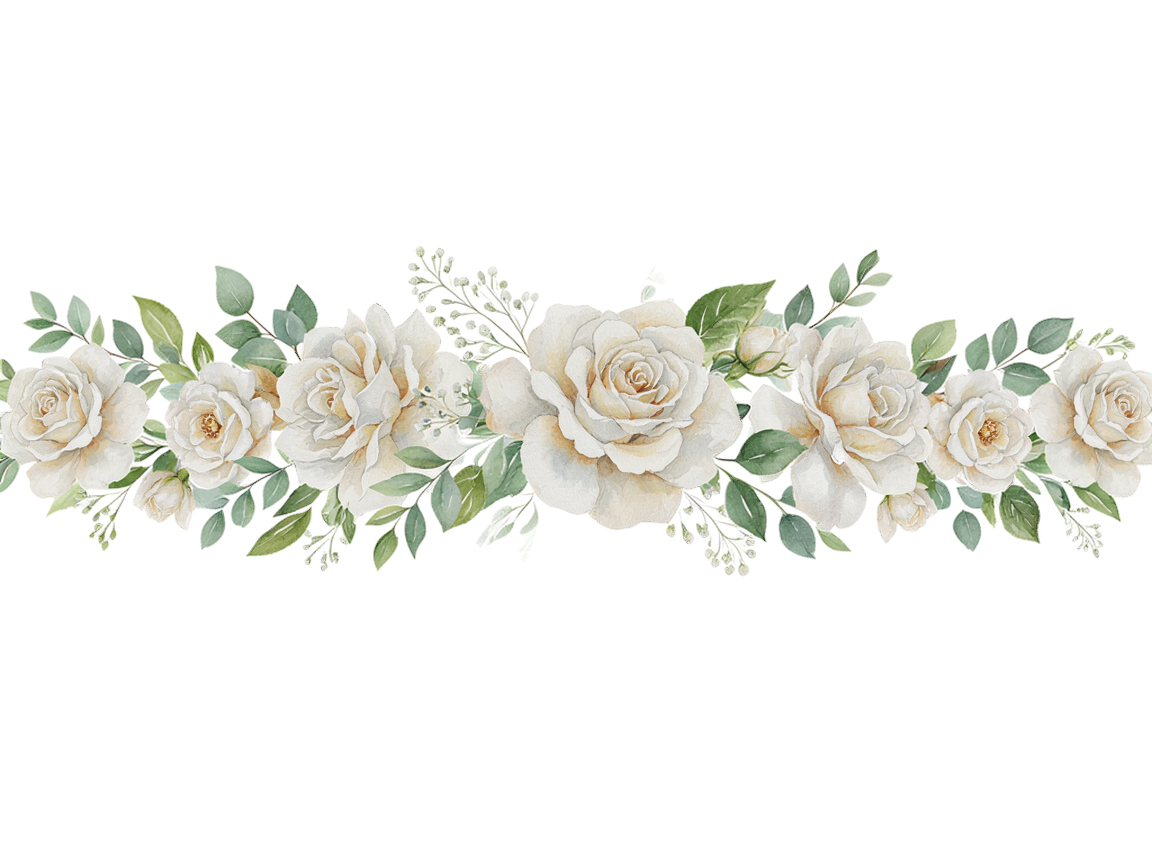
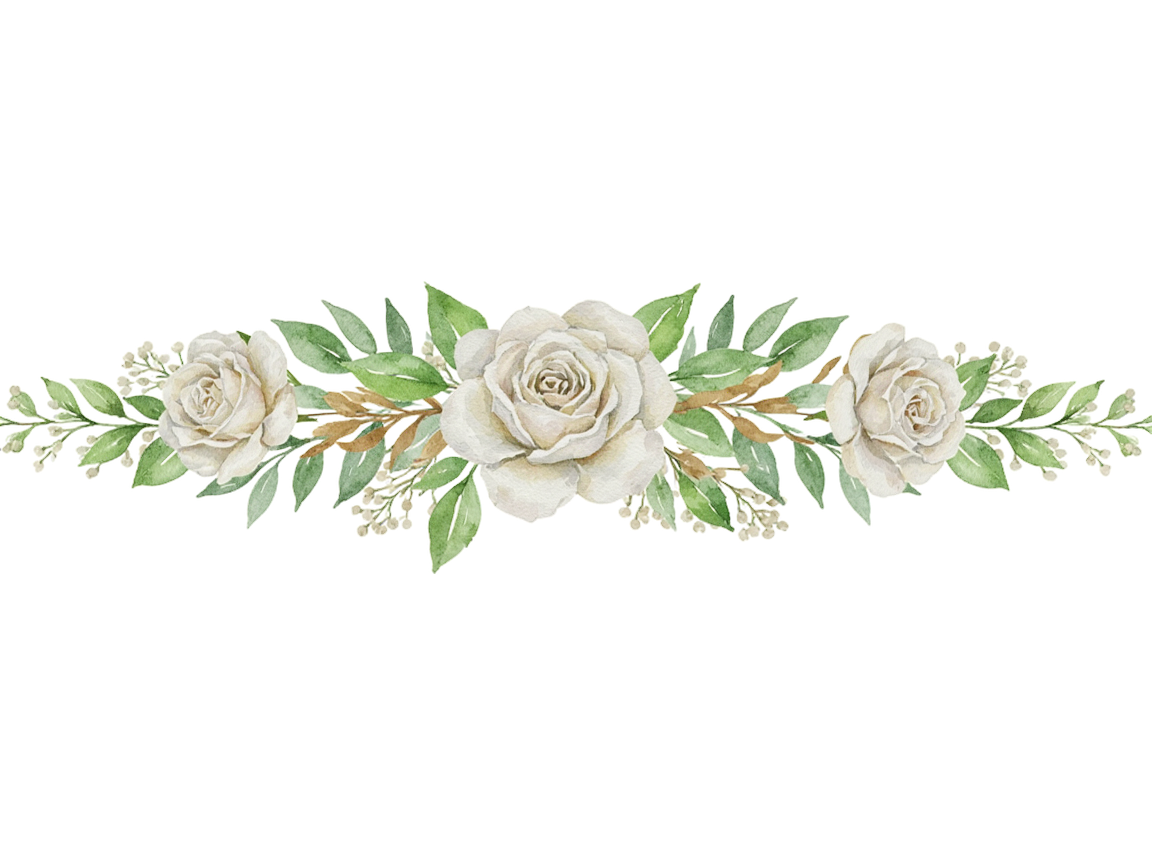
Difumina las costuras entre secciones y usa ilustraciones reales de vestimenta
Las bandas ya no tienen bordes: cada sección entra con el color con el que
sale la anterior, así que los fondos son degradados encadenados. Casos
especiales de la foto, que es imagen y no color plano: su borde superior se
difumina contra la banda previa y su sombra inferior se derrama sobre
Ubicación durante ~110 px en vez de cortarse en seco contra el crema.

Reemplaza las siluetas SVG del código de vestimenta por recortes de
assets/dresscode.png, ajustados al bbox de alfa y alineados por el
dobladillo.

Regenera el divisor del cierre desde el PNG nuevo: recortado a su arte real
(traía dos tercios de lienzo vacío) y a 920 px, 147 KB contra 214 KB.

Agrega height:auto global a img — sin él, los atributos width/height que
acompañan al divisor deformaban la imagen.

Claude-Session: https://claude.ai/code/session_01P3bTJTnappvg8qY71HMG3s

Changed region(s): [[0.0, 0.2812, 1.0, 0.6875]]

diff --git a/css/styles.css b/css/styles.css
@@ -49,7 +49,7 @@ body{
   font-feature-settings: "lnum" 1;
 }
 
-img{ max-width: 100%; display: block; }
+img{ max-width: 100%; height: auto; display: block; }
 
 .visually-hidden{
   position: absolute; width: 1px; height: 1px;
@@ -94,10 +94,19 @@ img{ max-width: 100%; display: block; }
   overflow: hidden;
 }
 
-.section--cream{ background: var(--cream-warm); }
+.section--cream{
+  background: linear-gradient(180deg,
+    var(--cream-warm) 0%,
+    var(--cream-warm) 58%,
+    #F5F6EC 100%);
+}
 .section--sage{
-  background:
-    radial-gradient(120% 100% at 50% 0%, #F3F7EA 0%, var(--sage-mist) 55%, #E4EDD3 100%);
+  background: linear-gradient(180deg,
+    #F5F6EC 0%,
+    var(--sage-mist) 20%,
+    #E1EBCD 52%,
+    #E9EFDA 76%,
+    #F2F3E7 100%);
 }
 
 /* ---------- Botones ---------- */
@@ -434,7 +443,7 @@ body.is-open .invitation{ opacity: 1; }
   animation: float-a 11s ease-in-out infinite;
 }
 .hero__floral--bottom{
-  bottom: -6%;
+  bottom: -2%;
   left: -18%;
   width: min(360px, 74vw);
   transform: scaleX(-1);
@@ -549,6 +558,14 @@ body.is-open .invitation{ opacity: 1; }
   overflow: hidden;
   isolation: isolate;
 }
+.photo__frame::before{
+  content: "";
+  position: absolute;
+  top: 0; left: 0; right: 0;
+  height: clamp(60px, 12vw, 110px);
+  z-index: 1;
+  background: linear-gradient(to bottom, var(--cream-warm) 0%, rgba(247,242,233,0) 100%);
+}
 .photo__img{
   width: 100%;
   height: clamp(420px, 78svh, 680px);
@@ -607,6 +624,19 @@ body.is-open .invitation{ opacity: 1; }
 
 /* ---------- 4. Ubicación ---------- */
 
+.location{ isolation: isolate; }
+.location::before{
+  content: "";
+  position: absolute;
+  top: 0; left: 0; right: 0;
+  height: clamp(70px, 14vw, 120px);
+  z-index: 0;
+  background: linear-gradient(to bottom,
+    rgba(48,42,32,.86) 0%,
+    rgba(64,56,44,.42) 34%,
+    rgba(120,108,88,.14) 62%,
+    rgba(247,242,233,0) 100%);
+}
 .location .wrap{ text-align: center; }
 
 .card--location{
@@ -650,23 +680,16 @@ body.is-open .invitation{ opacity: 1; }
 
 .dresscode__icons{
   display: flex;
-  align-items: center;
+  align-items: flex-end;
   justify-content: center;
-  gap: clamp(1.4rem, 7vw, 3.4rem);
+  gap: clamp(1.6rem, 8vw, 3.8rem);
 }
 .silhouette{ margin: 0; display: grid; justify-items: center; gap: .9rem; }
-.silhouette svg{
-  width: clamp(84px, 24vw, 116px);
-  height: auto;
+.silhouette img{
+  height: clamp(124px, 34vw, 168px);
+  width: auto;
+  filter: drop-shadow(0 10px 16px rgba(90,76,52,.13));
 }
-.silhouette .line{
-  fill: none;
-  stroke: var(--tan-deep);
-  stroke-width: 2;
-  stroke-linecap: round;
-  stroke-linejoin: round;
-}
-.silhouette .line .dot{ fill: var(--tan-deep); stroke: none; }
 .silhouette figcaption{
   font-size: .66rem;
   letter-spacing: .28em;
@@ -677,6 +700,7 @@ body.is-open .invitation{ opacity: 1; }
 .dresscode__divider{
   width: 1px;
   align-self: stretch;
+  margin-bottom: .6rem;
   background: linear-gradient(to bottom, transparent, rgba(124,154,94,.55), transparent);
 }
 .dresscode__note{
@@ -688,7 +712,13 @@ body.is-open .invitation{ opacity: 1; }
 
 /* ---------- 6. Itinerario ---------- */
 
-.timeline-section{ background: var(--cream); }
+.timeline-section{
+  background: linear-gradient(180deg,
+    #F2F3E7 0%,
+    var(--cream) 22%,
+    var(--cream) 62%,
+    #F7F0E3 100%);
+}
 
 .timeline{
   list-style: none;
@@ -782,7 +812,11 @@ body.is-open .invitation{ opacity: 1; }
 /* ---------- 7. Confirmación ---------- */
 
 .rsvp{
-  background: #F3EBDD;
+  background: linear-gradient(180deg,
+    #F7F0E3 0%,
+    #F3EBDD 22%,
+    #F3EBDD 74%,
+    #F1E7D6 100%);
   isolation: isolate;
 }
 .rsvp__bg{
@@ -795,7 +829,11 @@ body.is-open .invitation{ opacity: 1; }
 .rsvp::after{
   content: "";
   position: absolute; inset: 0;
-  background: linear-gradient(180deg, #F3EBDD 0%, rgba(243,235,221,.72) 35%, rgba(243,235,221,.72) 65%, #F3EBDD 100%);
+  background: linear-gradient(180deg,
+    #F7F0E3 0%,
+    rgba(243,235,221,.74) 30%,
+    rgba(243,235,221,.74) 70%,
+    #F1E7D6 100%);
   z-index: 1;
 }
 .rsvp__text{
@@ -816,14 +854,17 @@ body.is-open .invitation{ opacity: 1; }
 
 .closing{
   position: relative;
-  background: linear-gradient(180deg, var(--cream-warm) 0%, var(--sage-mist) 100%);
+  background: linear-gradient(180deg,
+    #F1E7D6 0%,
+    var(--cream-warm) 26%,
+    var(--sage-mist) 100%);
   padding: 0 var(--pad) clamp(3.5rem, 10vw, 5.5rem);
   text-align: center;
   overflow: hidden;
 }
 .closing__divider{
-  width: min(460px, 92%);
-  margin: -1.5rem auto clamp(1rem, 4vw, 2rem);
+  width: min(520px, 96%);
+  margin: clamp(2.4rem, 8vw, 3.8rem) auto clamp(1.8rem, 5vw, 2.8rem);
   opacity: .95;
 }
 .closing__text{
@@ -877,6 +918,7 @@ body.is-open .invitation{ opacity: 1; }
 
 @media (min-width: 900px){
   .photo__img{ height: 80svh; }
+  .silhouette img{ height: 196px; }
   .hero__inner{ max-width: 44rem; }
   .hero__floral--top{ right: -2%; width: min(400px, 32vw); }
   .hero__floral--bottom{ left: -3%; width: min(420px, 34vw); }

diff --git a/index.html b/index.html
@@ -118,35 +118,12 @@
       <p class="dresscode__value">Formal</p>
       <div class="dresscode__icons">
         <figure class="silhouette">
-          <svg viewBox="0 0 120 200" aria-hidden="true">
-            <g class="line">
-              <circle cx="60" cy="26" r="12" />
-              <path d="M48 34 c-4 6 -6 12 -6 18 l-6 10" />
-              <path d="M72 34 c4 6 6 12 6 18 l6 10" />
-              <path d="M49 40 h22 l6 26 c-8 5 -26 5 -34 0 Z" />
-              <path d="M43 66 L22 176 c24 8 52 8 76 0 L77 66" />
-              <path d="M24 176 c22 6 50 6 72 0" />
-              <path d="M60 46 v130" />
-            </g>
-          </svg>
+          <img src="assets/opt/vestido.webp" alt="" aria-hidden="true" loading="lazy" width="202" height="420" />
           <figcaption>Ellas</figcaption>
         </figure>
         <span class="dresscode__divider" aria-hidden="true"></span>
         <figure class="silhouette">
-          <svg viewBox="0 0 120 200" aria-hidden="true">
-            <g class="line">
-              <circle cx="60" cy="26" r="12" />
-              <path d="M52 38 h16" />
-              <path d="M52 38 L36 50 c-6 4 -8 10 -8 16 v40" />
-              <path d="M68 38 L84 50 c6 4 8 10 8 16 v40" />
-              <path d="M52 38 L60 60 L68 38" />
-              <path d="M60 60 v18" />
-              <circle class="dot" cx="60" cy="90" r="2.5" />
-              <circle class="dot" cx="60" cy="102" r="2.5" />
-              <path d="M32 106 v76 h24 l4 -76" />
-              <path d="M88 106 v76 H64 l-4 -76" />
-            </g>
-          </svg>
+          <img src="assets/opt/traje.webp" alt="" aria-hidden="true" loading="lazy" width="219" height="420" />
           <figcaption>Ellos</figcaption>
         </figure>
       </div>
@@ -205,7 +182,7 @@
 
   <!-- 8. Cierre -->
   <footer class="closing">
-    <img class="closing__divider" src="assets/opt/rosesdivider.webp" alt="" aria-hidden="true" loading="lazy" />
+    <img class="closing__divider" src="assets/opt/rosesdivider.webp" alt="" aria-hidden="true" loading="lazy" width="920" height="237" />
     <div class="wrap reveal">
       <p class="closing__text">Esperamos contar con su presencia.<br />¡Muchas gracias!</p>
       <p class="closing__names">Juan&nbsp;Pablo <em>&amp;</em> Juliana</p>

diff --git a/CLAUDE.md b/CLAUDE.md
@@ -1,0 +1,122 @@
+# CLAUDE.md
+
+This file provides guidance to Claude Code (claude.ai/code) when working with code in this repository.
+
+## Qué es
+
+Invitación de boda de una sola página (Juan Pablo & Juliana, 21 nov 2026, Rooftop Qantic, Medellín).
+HTML/CSS/JS plano — sin framework, sin bundler, sin dependencias de runtime. Todo el texto de cara al
+invitado va en español; el código y los comentarios también están en español.
+
+## Comandos
+
+```bash
+python -m http.server 8000        # servir la página (o abrir index.html directo)
+```
+
+No hay build, lint ni suite de pruebas. La verificación es visual, con Playwright (Python):
+
+```python
+# instalar una vez: python -m pip install playwright && python -m playwright install chromium
+from playwright.sync_api import sync_playwright
+import pathlib
+url = pathlib.Path('index.html').resolve().as_uri()
+with sync_playwright() as p:
+    b = p.chromium.launch()
+    pg = b.new_page(viewport={'width':375,'height':812})   # móvil de referencia
+    pg.goto(url); pg.wait_for_timeout(1200)
+    pg.click('#envelope'); pg.wait_for_timeout(2600)       # hay que abrir el sobre para ver nada
+    pg.screenshot(path='shot.png')
+```
+
+Dos trampas al capturar pantallas:
+- `full_page=True` no dispara las imágenes con `loading="lazy"`; salen en blanco. Capturar por
+  secciones desplazando con `window.scrollTo`.
+- Las clases `.reveal` solo se activan al hacer scroll; para una captura completa, forzarlas:
+  `pg.evaluate("document.querySelectorAll('.reveal').forEach(e=>e.classList.add('is-visible'))")`.
+
+## Arquitectura
+
+**Máquina de estados por clases en `<body>`.** `is-sealed` (inicial, bloquea el scroll) →
+click en `#envelope` → `is-open`. Todo lo demás cuelga de esas dos clases en CSS; `js/main.js`
+solo las alterna, oculta la escena y arranca las apariciones.
+
+**Las duraciones de la apertura están repartidas entre CSS y JS y hay que moverlas juntas:**
+
+| Paso | Dónde |
+| --- | --- |
+| Lacre, solapa, carta | `body.is-open .envelope__*` en `css/styles.css` |
+| Desvanecido de la escena | `transition` de `.envelope-scene` (retardo 1,15 s) |
+| Aparición de la invitación | `transition` de `.invitation` (retardo 1,3 s) |
+| `display:none` de la escena + inicio del IntersectionObserver | `setTimeout` de 2200 ms en `js/main.js` |
+
+Si se cambia un retardo del CSS, el `setTimeout` debe seguir siendo mayor que el total, o la
+escena desaparece a mitad de la animación.
+
+**Geometría del sobre.** `.envelope__letter` vive dentro de la caja del sobre (`top:7%; height:86%`)
+con `z-index` por debajo de `.envelope__front`, así queda oculta cuando está cerrado; al abrir sube
+con `translateY(-72%)`. El `padding-bottom: 44%` de `.envelope__letter-inner` es lo que mantiene el
+monograma en la parte que sí queda visible. Los tres valores están acoplados.
+
+**Cuenta regresiva.** Anclada a `2026-11-21T16:00:00-05:00` en `js/main.js` (hora de Colombia fija,
+para que el conteo sea igual en cualquier huso). El aviso para lectores de pantalla se emite una vez
+por minuto, no cada segundo. Al llegar a cero se detiene el intervalo y cambia el título de la sección.
+
+**Apariciones al hacer scroll.** Un solo IntersectionObserver sobre `.reveal`, creado dentro de
+`revelar()` — que solo se llama después de abrir el sobre. Cada elemento se deja de observar al
+aparecer.
+
+**Movimiento reducido.** El bloque `@media (prefers-reduced-motion: reduce)` anula duración *y
+retardo* de animaciones y transiciones. Si se agrega un `transition-delay` nuevo, hay que confirmar
+que ese bloque lo neutraliza; de lo contrario el contenido se queda invisible.
+
+## Costuras entre secciones
+
+Las bandas no tienen bordes: cada sección **entra con el color con el que sale la anterior**, así
+que los fondos son degradados verticales encadenados y el color final de una sección es un contrato
+con la siguiente. La cadena, de arriba abajo:
+
+`#E9F0DA` (portada) → `#FBF8F2` → `#F7F2E9` (foto) → `#F5F6EC` → `#F2F3E7` → `#F7F0E3` → `#F1E7D6` → `--sage-mist`
+
+Si se cambia el fondo de una sección hay que ajustar también el primer stop de la siguiente. Dos
+casos especiales:
+
+- `.photo__frame::before` difumina el borde superior de la foto contra la banda anterior.
+- `.location::before` continúa la sombra oscura del pie de la foto durante ~110 px, para que el
+  degradado del versículo no termine en un corte seco contra el crema.
+
+Para verificar una costura, muestrear píxeles arriba y abajo del borde con Playwright + Pillow; un
+salto mayor a ~3 por canal se nota a simple vista. El overlay `.rsvp::after` tiene que repetir los
+mismos colores de borde que `.rsvp`, o vuelve a endurecer la costura.
+
+## Imágenes
+
+`assets/` guarda los originales (JPEG/PNG pesados, hasta 2 MB). La página **solo** referencia
+`assets/opt/*.webp`. Al reemplazar una imagen hay que regenerar su `.webp` con Pillow manteniendo el
+nombre: florales a 760 px de ancho (600 px las velas) conservando transparencia, fotos a calidad 82.
+El divisor del cierre va recortado a su bbox de alfa (`getchannel('A').getbbox()`) y a 920 px —el doble
+de su ancho máximo en CSS— con `quality=95, alpha_quality=100`; el PNG original trae dos tercios de
+lienzo vacío que descuadran los márgenes si no se recorta. `assets/opt/pareja.jpg` se conserva aparte porque es el `og:image` para compartir.
+
+`assets/dresscode.png` es una lámina de 3x2 prendas sobre transparencia; `vestido.webp` y
+`traje.webp` salen de recortar dos celdas de esa lámina y ajustarlas a su bbox de alfa. Al ser color
+plano comprimen mejor sin pérdida (10 y 22 KB), así que van con `lossless=True`.
+
+Los florales venían de PNG con transparencia; cuantizarlos con paleta dejaba un rectángulo visible
+alrededor de las flores — por eso WebP y no PNG reducido.
+
+## Datos que cambian con frecuencia
+
+Los enumera `README.md` en una tabla: fecha del conteo, horas del itinerario (`<ol class="timeline">`),
+enlace de WhatsApp (`wa.link/dgonhr`), enlace de Maps, fecha límite en `.rsvp__text`, y los tokens de
+color en `:root`.
+
+## Diseño
+
+`skills/frontend-design/` es un plugin de skill instalado en el repo, no código del sitio. Sus reglas
+guiaron el diseño y siguen aplicando: elegir tipografía y paleta a propósito, evitar los tics de página
+generada (eyebrow en mayúsculas sobre cada título, tarjetas idénticas, flecha «→» en los botones),
+y gastar la audacia en un solo lugar — aquí, el sobre que se abre.
+
+Cormorant Garamond trae cifras de estilo antiguo por defecto; el `font-variant-numeric: lining-nums`
+del `body` es lo que hace que la cuenta regresiva y las fechas se lean bien. No quitarlo.
